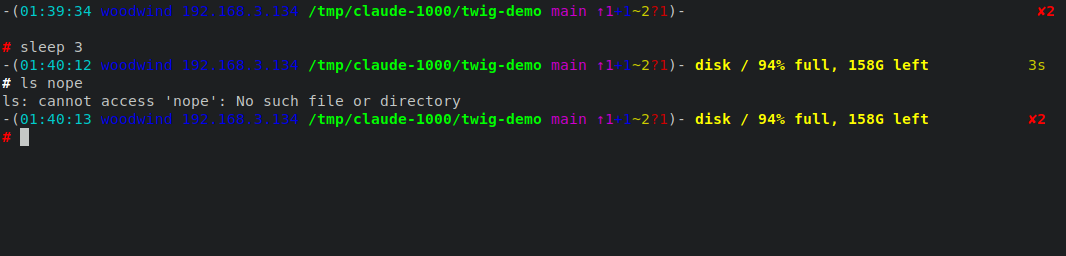
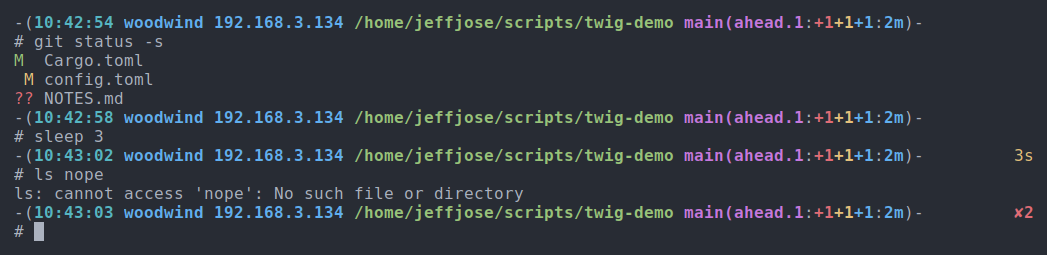
Failed commands show again; twig notices; screenshots in a softer palette
The precmd that falls back to twig on PATH checked for the binary before
reading $status, and the check reset it: since then no prompt showed a
command failing (✘ and the red symbol). $status is now saved first, and
a test holds it there.

twig notices shows the notices up now (id, age, how long they stay) and
the last 50 to go away, with how: dismissed, expired, or cleared when what
they were about was over. `twig ack` says so.

The README's screenshots were in xterm's default colors, where the blue
of the host is a dark navy on black. They are retaken in One Dark, from a
repository under ~/scripts.

Claude-Session: https://claude.ai/code/session_0124HZAeWk1cb8FhDAWMeH1Q

diff --git a/src/notices.rs b/src/notices.rs
@@ -57,6 +57,23 @@ pub struct Notices {
     /// Where the dismissals are kept, so they last past a restart of the
     /// daemon (none in tests).
     file: Option<std::path::PathBuf>,
+    /// The last notices to go away, oldest first, for `twig notices`.
+    pub past: std::collections::VecDeque<Past>,
+}
+
+/// How many notices that have gone away are kept.
+const PAST: usize = 50;
+
+/// A notice that has gone away, and how: dismissed, expired, or cleared
+/// (what it was about is over).
+#[derive(Clone, Debug, Serialize)]
+pub struct Past {
+    pub id: u64,
+    pub text: String,
+    pub level: Level,
+    pub created: u64,
+    pub ended: u64,
+    pub how: &'static str,
 }
 
 impl Notices {
@@ -120,20 +137,30 @@ impl Notices {
         true
     }
 
+    /// Take the notices `gone` picks out of the list, into the ones past.
+    fn retire(&mut self, how: &'static str, gone: impl Fn(&Notice) -> bool) -> usize {
+        let now = now_ms();
+        let (out, keep): (Vec<Notice>, Vec<Notice>) = std::mem::take(&mut self.list).into_iter().partition(|n| gone(n));
+        self.list = keep;
+        for n in &out {
+            if self.past.len() >= PAST {
+                self.past.pop_front();
+            }
+            self.past.push_back(Past { id: n.id, text: n.text.clone(), level: n.level, created: n.created, ended: now, how });
+        }
+        out.len()
+    }
+
     /// The condition behind a keyed notice is over.
     pub fn clear(&mut self, key: &str) -> bool {
         if self.acked.remove(key).is_some() {
             self.save_acked();
         }
-        let before = self.list.len();
-        self.list.retain(|n| n.key.as_deref() != Some(key));
-        before != self.list.len()
+        self.retire("cleared", |n| n.key.as_deref() == Some(key)) > 0
     }
 
     pub fn expire(&mut self, now: u64) -> bool {
-        let before = self.list.len();
-        self.list.retain(|n| n.expires.is_none_or(|e| e > now));
-        before != self.list.len()
+        self.retire("expired", |n| n.expires.is_some_and(|e| e <= now)) > 0
     }
 
     fn visible(n: &Notice, pid: u32, now: u64) -> bool {
@@ -163,21 +190,16 @@ impl Notices {
     /// Dismiss one notice, or every one this shell can see.
     pub fn ack(&mut self, id: Option<u64>, pid: Option<u32>) -> usize {
         let now = now_ms();
-        let mut gone = 0;
-        let acked = &mut self.acked;
-        self.list.retain(|n| {
-            let hit = match id {
-                Some(i) => n.id == i,
-                None => pid.is_none_or(|p| Self::visible(n, p, now)),
-            };
-            if hit {
-                if let Some(k) = &n.key {
-                    acked.insert(k.clone(), n.level);
-                }
-                gone += 1;
+        let hit = |n: &Notice| match id {
+            Some(i) => n.id == i,
+            None => pid.is_none_or(|p| Self::visible(n, p, now)),
+        };
+        for n in self.list.iter().filter(|n| hit(n)) {
+            if let Some(k) = &n.key {
+                self.acked.insert(k.clone(), n.level);
             }
-            !hit
-        });
+        }
+        let gone = self.retire("dismissed", hit);
         self.save_acked();
         gone
     }
@@ -239,6 +261,81 @@ fn usage_err(msg: &str) -> i32 {
     2
 }
 
+/// `twig notices`: the notices showing now, and the last ones to go away
+/// (dismissed, expired, or cleared when what they were about was over).
+pub fn list_cmd(_args: &[String]) -> i32 {
+    let v = match client::ask(&Request::Notices) {
+        Ok(v) => v,
+        Err(e) => {
+            eprintln!("twig: {e}");
+            return 1;
+        }
+    };
+    let color = unsafe { libc::isatty(1) } == 1;
+    let paint = |s: &str, st: &str| if color { crate::template::Style::of(st).paint(s) } else { s.to_string() };
+    let dim = |s: &str| paint(s, "dim");
+    let by_level = |l: &serde_json::Value| match l.as_str() {
+        Some("error") => "red",
+        Some("warn") => "yellow",
+        _ => "cyan",
+    };
+    let now = now_ms();
+    let ago = |t: u64| crate::util::fmt_ago(t, now);
+
+    let mut body = Vec::new();
+    for n in v["notices"].as_array().into_iter().flatten() {
+        let mut how = Vec::new();
+        if let Some(e) = n["expires"].as_u64() {
+            how.push(format!("for {}", crate::util::fmt_ago(now, e)));
+        }
+        if let Some(s) = n["shows"].as_u64() {
+            how.push(format!("{s} prompts"));
+        }
+        if n["pid"].is_u64() {
+            how.push("one shell".into());
+        }
+        if n["key"].is_string() && how.is_empty() {
+            how.push("until it's over".into());
+        }
+        body.push(format!(
+            "{} {} {}  {}",
+            dim(&format!("{:>3}", n["id"].as_u64().unwrap_or(0))),
+            dim(&format!("{:>4}", ago(n["created"].as_u64().unwrap_or(now)))),
+            paint(n["text"].as_str().unwrap_or(""), by_level(&n["level"])),
+            dim(&how.join(", ")),
+        ));
+    }
+    if body.is_empty() {
+        body.push(dim("none"));
+    }
+    for l in crate::boxes::draw("notices now", &body, Some("twig ack [ID] to dismiss")) {
+        println!("{l}");
+    }
+
+    let past = v["past"].as_array().cloned().unwrap_or_default();
+    if !past.is_empty() {
+        let body: Vec<String> = past
+            .iter()
+            .rev()
+            .take(20)
+            .map(|n| {
+                format!(
+                    "{} {} {}  {}",
+                    dim(&format!("{:>3}", n["id"].as_u64().unwrap_or(0))),
+                    dim(&format!("{:>4}", ago(n["ended"].as_u64().unwrap_or(now)))),
+                    paint(n["text"].as_str().unwrap_or(""), by_level(&n["level"])),
+                    dim(n["how"].as_str().unwrap_or("")),
+                )
+            })
+            .collect();
+        println!();
+        for l in crate::boxes::draw("earlier, newest first", &body, None) {
+            println!("{l}");
+        }
+    }
+    0
+}
+
 /// `twig ack [ID]`: dismiss one notice, or all that this shell shows.
 pub fn ack_cmd(args: &[String]) -> i32 {
     let id = match args.first() {
@@ -255,7 +352,7 @@ pub fn ack_cmd(args: &[String]) -> i32 {
     match client::ask(&Request::Ack { id, pid }) {
         Ok(v) => {
             let n = v["acked"].as_u64().unwrap_or(0);
-            println!("dismissed {n} notice{}", if n == 1 { "" } else { "s" });
+            println!("dismissed {n} notice{}; twig notices shows them again", if n == 1 { "" } else { "s" });
             0
         }
         Err(e) => {
@@ -293,6 +390,20 @@ mod tests {
         assert!(n.put(new("disk 95%", Some("disk:/"))));
         assert_eq!(n.list.len(), 1);
         assert!(n.clear("disk:/"));
+        assert!(n.list.is_empty());
+    }
+
+    #[test]
+    fn gone_notices_are_kept_with_how() {
+        let mut n = Notices::default();
+        n.put(new("one", None));
+        n.put(new("disk", Some("disk:/")));
+        n.put(New { ttl_ms: Some(0), ..new("brief", None) });
+        n.expire(now_ms() + 1);
+        n.ack(Some(1), None);
+        n.clear("disk:/");
+        let how: Vec<(&str, &str)> = n.past.iter().map(|p| (p.text.as_str(), p.how)).collect();
+        assert_eq!(how, vec![("brief", "expired"), ("one", "dismissed"), ("disk", "cleared")]);
         assert!(n.list.is_empty());
     }
 

diff --git a/src/tcsh.rs b/src/tcsh.rs
@@ -56,6 +56,11 @@ pub fn escape(text: &str) -> String {
     out
 }
 
+/// Before each prompt. $status is saved first: every builtin after it (the
+/// if) sets it again, and the prompt would never see a command fail.
+const PRECMD: &str = "alias precmd 'set _twst = $status; if (! -x \"$_twig\") set _twig = twig; \
+                      set _tw = (\"`$_twig prompt $$ $_twst`\"); set prompt = \"$_tw[1]\"; set rprompt = \"$_tw[2]\"'";
+
 /// `twig init tcsh`: commands for .cshrc, on one line so that
 /// eval "`twig init tcsh`" works.
 pub fn init(args: &[String]) -> i32 {
@@ -75,7 +80,7 @@ pub fn init(args: &[String]) -> i32 {
         // through a mise shim (about 18 ms each); if it goes away (an upgrade),
         // twig from PATH. -x is a builtin test, so the check is free.
         format!("set _twig = \"{exe}\""),
-        "alias precmd 'if (! -x \"$_twig\") set _twig = twig; set _tw = (\"`$_twig prompt $$ $status`\"); set prompt = \"$_tw[1]\"; set rprompt = \"$_tw[2]\"'".into(),
+        PRECMD.into(),
         // The history builtin gives the line about to run, with its event
         // number: an empty line runs postcmd too, and repeats the number.
         // ($_ is the previous command here, and is evaluated again when
@@ -95,6 +100,13 @@ pub fn init(args: &[String]) -> i32 {
 #[cfg(test)]
 mod tests {
     use super::*;
+
+    #[test]
+    fn precmd_reads_status_before_anything_else() {
+        let body = PRECMD.split_once('\'').unwrap().1;
+        assert!(body.starts_with("set _twst = $status;"), "{body}");
+        assert!(!body[20..].contains("$status"), "$status read again later: {body}");
+    }
 
     #[test]
     fn escapes() {

diff --git a/src/main.rs b/src/main.rs
@@ -32,7 +32,8 @@ twig: a fast tcsh prompt, with a daemon that keeps it up to date.
 Notices: messages on the prompt that go away by themselves.
 
   twig notify [--warn|--error] [--for 10m] [--shows N] [--here] TEXT
-  twig ack [ID]         dismiss one (ids are in twig status), or all in this shell
+  twig notices          the ones showing now, and the last ones to go away
+  twig ack [ID]         dismiss one, or all in this shell
 
 Jobs: commands that run in the background and report on the prompt.
 
@@ -80,7 +81,8 @@ fn main() {
         "z" => dirs::z_cmd(&rest),
         "dirs" => dirs::list_cmd(&rest),
         // The older names lead to the two reports.
-        "status" | "notices" => setup::status(),
+        "status" => setup::status(),
+        "notices" => notices::list_cmd(&rest),
         "info" | "check" | "cost" | "debug" => setup::info(&rest),
         "timings" => client::timings(),
         "setup" => setup::setup(),

diff --git a/src/daemon.rs b/src/daemon.rs
@@ -340,7 +340,10 @@ fn handle(sh: &S, req: Request, t0: Instant) -> Value {
             redraw(sh, |_| true);
             json!({ "acked": n })
         }
-        Request::Notices => json!({ "notices": sh.lock().notices.list }),
+        Request::Notices => {
+            let st = sh.lock();
+            json!({ "notices": st.notices.list, "past": st.notices.past })
+        }
         Request::JobStart { cmd, cwd, shell } => {
             let mut st = sh.lock();
             let id = st.next_job;

diff --git a/README.md b/README.md
@@ -41,7 +41,9 @@ twig notify backup done                  # for an hour
 twig notify --warn --for 10m deploy is running
 twig notify --error --shows 3 --here look at this    # 3 prompts, this shell only
 twig ack                                 # dismiss what this shell shows
-twig ack 3                               # dismiss one (ids are in twig status)
+twig ack 3                               # dismiss one
+twig notices                             # what is showing, and the last 50 to go
+                                         # (dismissed, expired, or over)
 ```
 
 The daemon makes its own: a disk over 90%, a low battery, a failed
